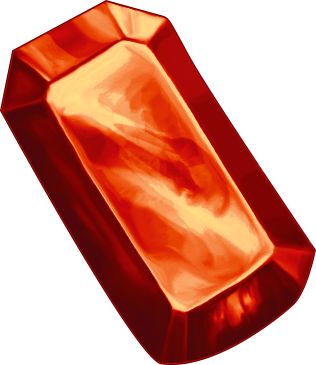
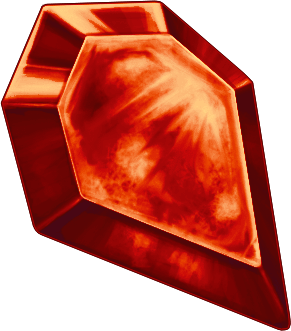
v0.3 - in process

diff --git a/animation_game.js b/animation_game.js
@@ -8,52 +8,228 @@ const elms_to_picture = {
     "4": "images/gem4.png",
     "5": "images/gem_silver.png",
     "6": "images/gem_gold.png",
+    "7": "images/gem_black_diamond.png",
     "-1": "images/ruby.png",
     "gem": "images/gem.png",
     "bonus_1": "images/bonus_1.png",
     "bonus_2": "images/bonus_2.png",
-    "bonus_3": "images/bonus_3.png"
+    "bonus_3": "images/bonus_3.png",
+    "empty": "images/empty.jpg"
 };
 const elms_shield_to_picture = ["images/shield_0.jpg","images/shield_1.jpg","images/shield_2.jpg","images/shield_3.jpg"];
 
 const shield_field_div = document.getElementById("shield_field");
+const shield_field_was_div = document.getElementById("shield_field_was");
 const gems_field_div = document.getElementById("gems_field");
 const animation_field_div = document.getElementById("animation_field");
+const score_div = document.getElementById("score");
 var field = {};
+
+var shield_elms = [], gems_elms = [], black_paper = undefined;
 var tile_size = 0;
-const wait_time = 300;
+const wait_time = 500;
 
 var can_play = false;
 
-function update_tile_size() {
+
+var margin_left = 0, margin_top = 0;
+function _review_field() {
+    for (var i = 0; i < field["n"]; ++i) {
+        for (var j = 0; j < field["m"]; ++j) {
+            if (shield_elms[i][j] != undefined) {
+                shield_field_div.removeChild(shield_elms[i][j]);
+            }
+            if (gems_elms[i][j] != undefined) {
+                gems_field_div.removeChild(gems_elms[i][j]);
+            }
+            if (black_paper != undefined) {
+                animation_field_div.removeChild(black_paper);
+            }
+            black_paper = document.createElement("div");
+            black_paper.style.top = `${margin_top}px`;
+            black_paper.style.left = `${margin_left}px`;
+            black_paper.style.width = `${field['m'] * tile_size + 1}px`;
+            black_paper.style.height = `${field['n'] * tile_size + 1}px`;
+            black_paper.style.backgroundColor = "black";
+            animation_field_div.appendChild(black_paper);
+            setTimeout(() => black_paper.style.backgroundColor = "transparent", 0);
+
+            if (field["gems_field"][i][j] != "empty") {
+                var elm2 = document.createElement("img");
+                elm2.src = elms_to_picture[field["gems_field"][i][j]];
+                elm2.style.width = `${tile_size - 6}px`;
+                elm2.style.height = `${tile_size - 6}px`;
+                elm2.style.top = `${i * tile_size + 3 + margin_top}px`;
+                elm2.style.left = `${j * tile_size + 3 + margin_left}px`;
+                gems_field_div.appendChild(elm2);
+                gems_elms[i][j] = elm2;
+
+                var elm = document.createElement("img");
+                elm.src = elms_shield_to_picture[field["shield_field"][i][j]];
+                elm.style.width = `${tile_size + 1}px`;
+                elm.style.height = `${tile_size + 1}px`;
+                elm.style.top = `${i * tile_size + margin_top}px`;
+                elm.style.left = `${j * tile_size + margin_left}px`;
+                shield_field_div.appendChild(elm);
+                shield_elms[i][j] = elm;
+            } else {
+                gems_elms[i][j] = undefined;
+                var elm = document.createElement("img");
+                elm.src = elms_to_picture[field["gems_field"][i][j]];
+                elm.style.width = `${tile_size + 1}px`;
+                elm.style.height = `${tile_size + 1}px`;
+                elm.style.top = `${i * tile_size + margin_top}px`;
+                elm.style.left = `${j * tile_size + margin_left}px`;
+                shield_field_div.appendChild(elm);
+                shield_elms[i][j] = elm;
+            }
+        }
+    }
+}
+function update_all_field() {
     if (field["gems_field"] != undefined) {
+        margin_left = 0;
+        margin_top = 0;
         tile_size = Math.min(window.innerHeight / field["n"], window.innerWidth / field["m"]);
+        if (window.innerHeight / field["n"] < window.innerWidth / field["m"]) {
+            margin_left = 100;
+            tile_size = Math.min(window.innerHeight / field["n"], (window.innerWidth - margin_left) / field["m"]);
+        } else {
+            margin_top = 100;
+            tile_size = Math.min((window.innerHeight - margin_top) / field["n"], window.innerWidth / field["m"]);
+        }
+        _review_field();
     }
 }
 
-function play_game(field_base) {
-    field = run_field(field_base);
-    update_tile_size();
+
+function update_shield_field(field, field_new) {
+    var todelete = [];
     for (var i = 0; i < field["n"]; ++i) {
         for (var j = 0; j < field["m"]; ++j) {
-            var elm2 = document.createElement("img");
-            elm2.src = elms_to_picture[field["gems_field"][i][j]];
-            elm2.style.width = `${tile_size - 6}px`;
-            elm2.style.height = `${tile_size - 6}px`;
-            elm2.style.top = `${i * tile_size + 3}px`;
-            elm2.style.left = `${j * tile_size + 3}px`;
-            gems_field_div.appendChild(elm2);
+            if (field["shield_field"][i][j] != field_new["shield_field"][i][j]) {
+                var elm = document.createElement("img");
+                elm.src = elms_shield_to_picture[field_new["shield_field"][i][j]];
+                elm.style.width = `${tile_size + 1}px`;
+                elm.style.height = `${tile_size + 1}px`;
+                elm.style.top = `${i * tile_size + margin_top}px`;
+                elm.style.left = `${j * tile_size + margin_left}px`;
+                shield_field_was_div.appendChild(elm);
 
-            var elm = document.createElement("img");
-            elm.src = elms_shield_to_picture[field["shield_field"][i][j]];
-            elm.style.width = `${tile_size}px`;
-            elm.style.height = `${tile_size}px`;
-            elm.style.top = `${i * tile_size}px`;
-            elm.style.left = `${j * tile_size}px`;
-            shield_field_div.appendChild(elm);
+                shield_elms[i][j].style.height = "0px";
+                shield_elms[i][j].style.top = `${i * tile_size + margin_top + tile_size / 2}px`;
+                todelete.push(shield_elms[i][j]);
+                shield_elms[i][j] = elm;
+            }
+        }
+    }
+    setTimeout(() => {
+        for (var i = 0; i < field["n"]; ++i) {
+            for (var j = 0; j < field["m"]; ++j) {
+                if (field["shield_field"][i][j] != field_new["shield_field"][i][j]) {
+                    shield_field_was_div.removeChild(shield_elms[i][j]);
+                    shield_field_div.appendChild(shield_elms[i][j]);
+                }
+            }
+        }
+        todelete.forEach(todel => {
+            shield_field_div.removeChild(todel);
+        });
+    }, wait_time);
+}
+
+function show_score_field(score_add) {
+    var todelete = [];
+    for (var i = 0; i < score_add.length; ++i) {
+        var elm = document.createElement("div");
+        elm.innerText = score_add[i][2];
+        elm.style.fontSize = `${(tile_size * 1.5) / score_add[i][2].toString().length}px`;
+        elm.style.top = `${score_add[i][0] * tile_size + margin_top}px`;
+        elm.style.left = `${score_add[i][1] * tile_size + margin_left}px`;
+        elm.style.color = "transparent";
+        elm.style.textShadow = "";
+        animation_field_div.appendChild(elm);
+        todelete.push(elm);
+    }
+    setTimeout(() => {
+        todelete.forEach(todel => {
+            todel.style.color = "white";
+            todel.style.textShadow = "black 3px 3px";
+        });
+    }, wait_time);
+    setTimeout(() => {
+        todelete.forEach(todel => {
+            todel.style.color = "transparent";
+            todel.style.textShadow = "";
+        });
+    }, wait_time * 3);
+    setTimeout(() => {
+        todelete.forEach(todel => {
+            animation_field_div.removeChild(todel);
+        });
+    }, wait_time * 4);
+}
+
+function show_move_gems(field_new, move_list) {
+    for (var ind = 0; ind < move_list.length; ++ind) {
+        var r1 = move_list[ind][0][0], c1 = move_list[ind][0][1],
+        r2 = move_list[ind][1][0], c2 = move_list[ind][1][1];
+        if (c1 == -1) {
+            var elm2 = document.createElement("img");
+            elm2.src = elms_to_picture[field_new["gems_field"][r2][c2]];
+            elm2.style.width = "0px";
+            elm2.style.height = "0px";
+            elm2.style.top = `${r2 * tile_size + margin_top + tile_size / 2}px`;
+            elm2.style.left = `${c2 * tile_size + margin_left + tile_size / 2}px`;
+            gems_field_div.appendChild(elm2);
+            gems_elms[r2][c2] = elm2;
+            console.log(r1,c1,r2,c2, elm2);
+            ((r2, c2, elm2) => {setTimeout(() => {
+                elm2.style.width = `${tile_size - 6}px`;
+                elm2.style.height = `${tile_size - 6}px`;
+                elm2.style.top = `${r2 * tile_size + 3 + margin_top}px`;
+                elm2.style.left = `${c2 * tile_size + 3 + margin_left}px`;
+            }, 1000)})(r2, c2, elm2);
+        } else if (c2 == -1) {
+            gems_elms[r1][c1].style.width = "0px";
+            gems_elms[r1][c1].style.height = "0px";
+            gems_elms[r1][c1].style.top = `${r1 * tile_size + margin_top + tile_size / 2}px`;
+            gems_elms[r1][c1].style.left = `${c1 * tile_size + margin_left + tile_size / 2}px`;
+            ((elm2) => {setTimeout(() => {
+                gems_field_div.removeChild(elm2);
+            }, wait_time)})(gems_elms[r1][c1]);
         }
     }
 }
 
-play_game(get_empty_field(8, 8, 7, 0));
-addEventListener("resize", update_tile_size);
+
+function play_game(field_base) {
+    field = run_field(field_base);
+    gems_elms = [];
+    shield_elms = [];
+    for (var i = 0; i < field["n"]; ++i) {
+        gems_elms.push([]);
+        shield_elms.push([]);
+        for (var j = 0; j < field["m"]; ++j) {
+            gems_elms[i].push(undefined);
+            shield_elms[i].push(undefined);
+        }
+    }
+    update_all_field();
+    setTimeout(() => {
+        ct = recount_field(field);
+        show_score_field(ct["score_add"]);
+        show_move_gems(ct["field"], ct["move_list"])
+        update_shield_field(field, ct["field"]);
+        field = ct["field"];
+    }, wait_time * 3);
+}
+
+// aa = update_field_from_impossible_to_playable(get_empty_field(8, 8, 4, 0), 0);
+aa = get_empty_field(8, 8, 2, 3), 0;
+aa["gems_field"][0][0]="empty";
+aa["gems_field"][7][0]="empty";
+aa["gems_field"][7][7]="empty";
+aa["gems_field"][0][7]="empty";
+play_game(aa);
+addEventListener("resize", update_all_field);

diff --git a/field_lib.js b/field_lib.js
@@ -219,7 +219,6 @@ function recount_field(field) {
                 }
             }
             for (var i = 0; i < last_not_empty.length; ++i) {
-                move_list.push([[-i - 1, j], [last_not_empty[i], j]]);
                 if (Math.random() * field["stones_random"] < 1 && field["stones_number"] > 0) {
                     if (Math.random() * 4 < 1 && field["has_bombs"]) {
                         field["gems_field"][last_not_empty[i]][j] = "bomb";
@@ -231,6 +230,7 @@ function recount_field(field) {
                 } else {
                     field["gems_field"][last_not_empty[i]][j] = Math.floor(Math.random() * field["gems_number"]) % field["gems_number"];
                 }
+                move_list.push([[-i - 1, j], [last_not_empty[i], j], field["gems_field"][last_not_empty[i]][j]]);
             }
         }
         return {"triple_flag": 1, "field": field, "move_list": move_list, "score_add": score_add};
@@ -276,18 +276,18 @@ function recount_field(field) {
                     }
                 }
                 if (setfit[i][j] == -4) {
-                    move_list.push([[-1, -1], [i, j]]);
+                    move_list.push([[-1, -1], [i, j], "bonus_1"]);
                     field["gems_field"][i][j] = "bonus_1";
                 } else if (setfit[i][j] == -5) {
-                    move_list.push([[-1, -1], [i, j]]);
+                    move_list.push([[-1, -1], [i, j], "bonus_2"]);
                     field["gems_field"][i][j] = "bonus_2";
                 } else if (setfit[i][j] <= -6) {
-                    move_list.push([[-1, -1], [i, j]]);
+                    move_list.push([[-1, -1], [i, j], -1]);
                     field["gems_field"][i][j] = -1;
                     field["score"] += score_rules["ruby_get"];
                     score_add.push([i, j, score_rules["ruby_get"]]);
                 } else if (ct["field"][i][j] && field["was_bonus_3"] == undefined && field["score"] > 3000) {
-                    move_list.push([[-1, -1], [i, j]]);
+                    move_list.push([[-1, -1], [i, j], "bonus_3"]);
                     field["gems_field"][i][j] = "bonus_3";
                     field["was_bonus_3"] = true;
                 }
@@ -308,7 +308,6 @@ function recount_field(field) {
                 }
             }
             for (var i = 0; i < last_not_empty.length; ++i) {
-                move_list.push([[-i - 1, j], [last_not_empty[i], j]]);
                 if (Math.random() * field["stones_random"] < 1 && field["stones_number"] > 0) {
                     if (Math.random() * 4 < 1 && field["has_bombs"]) {
                         field["gems_field"][last_not_empty[i]][j] = "bomb";
@@ -320,6 +319,7 @@ function recount_field(field) {
                 } else {
                     field["gems_field"][last_not_empty[i]][j] = Math.floor(Math.random() * field["gems_number"]) % field["gems_number"];
                 }
+                move_list.push([[-i - 1, j], [last_not_empty[i], j], field["gems_field"][last_not_empty[i]][j]]);
             }
         }
         return {"triple_flag": ct["triple_flag"], "field": field, "move_list": move_list, "score_add": score_add};

diff --git a/style.css b/style.css
@@ -1,8 +1,11 @@
 div {
 	position: fixed;
-	transition: all 0.3s ease;
+	transition: all 0.5s ease;
+	font-family: 'Courier New', Courier, monospace;
+	font-weight: bold;
+	color: black;
 }
 img {
 	position: fixed;
-	transition: all 0.3s ease;
+	transition: all 0.5s ease;
 }

diff --git a/main.html b/main.html
@@ -7,9 +7,11 @@
 		<script src="field_lib.js"></script>
 	</head>
 	<body>
+		<div id="shield_field_was"></div>
 		<div id="shield_field"></div>
 		<div id="gems_field"></div>
 		<div id="animation_field"></div>
+		<div id="score"></div>
 	</body>
 	<script src="animation_game.js"></script>
 </html>